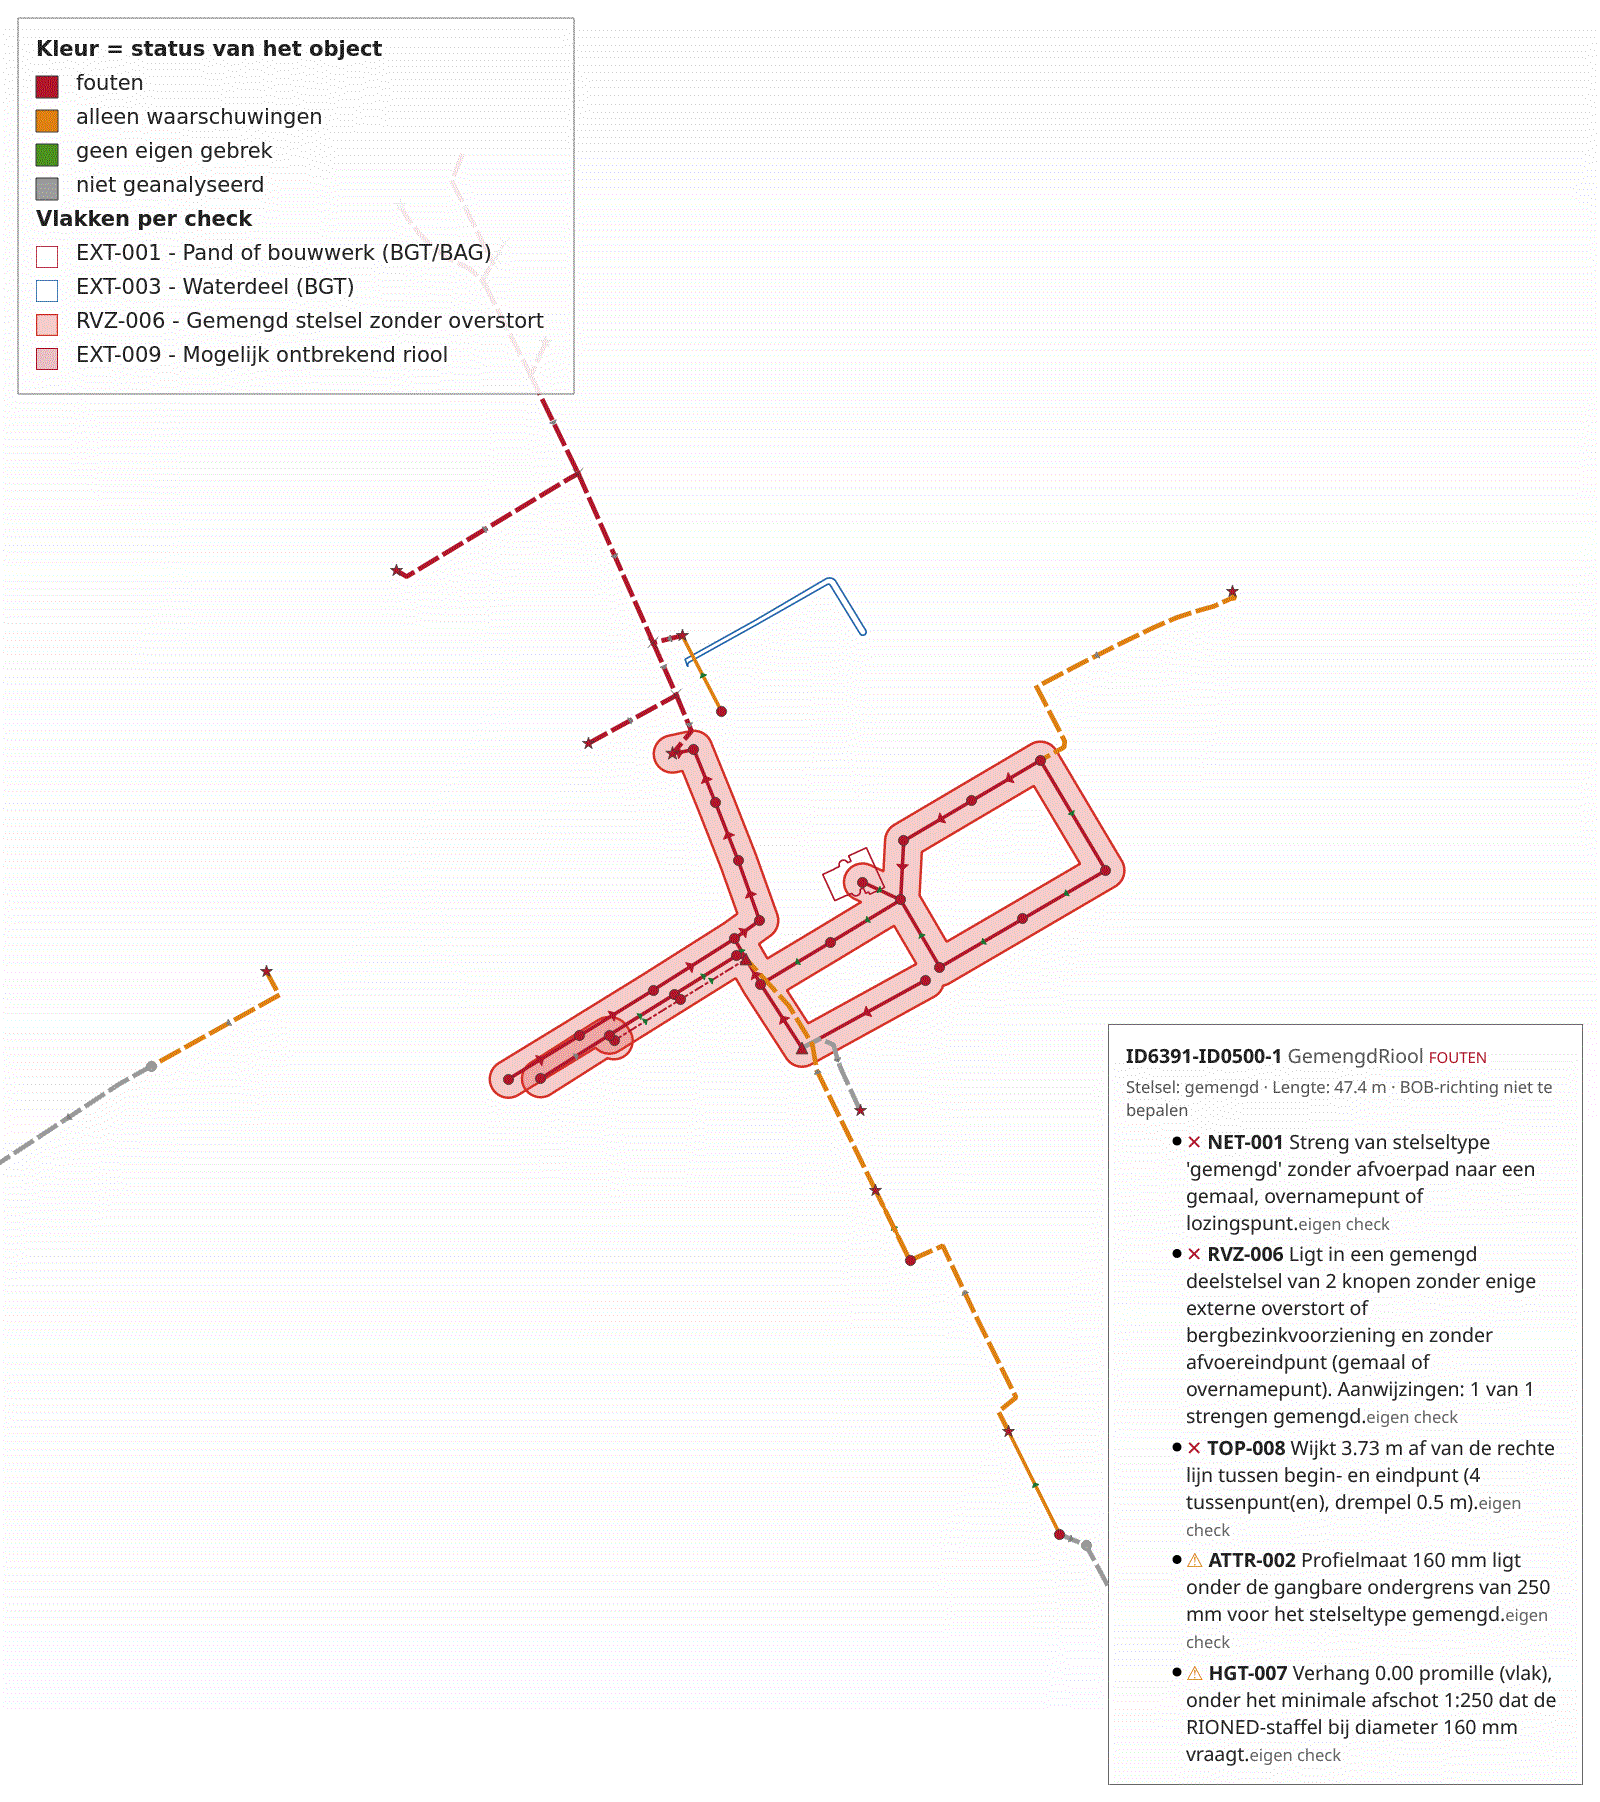
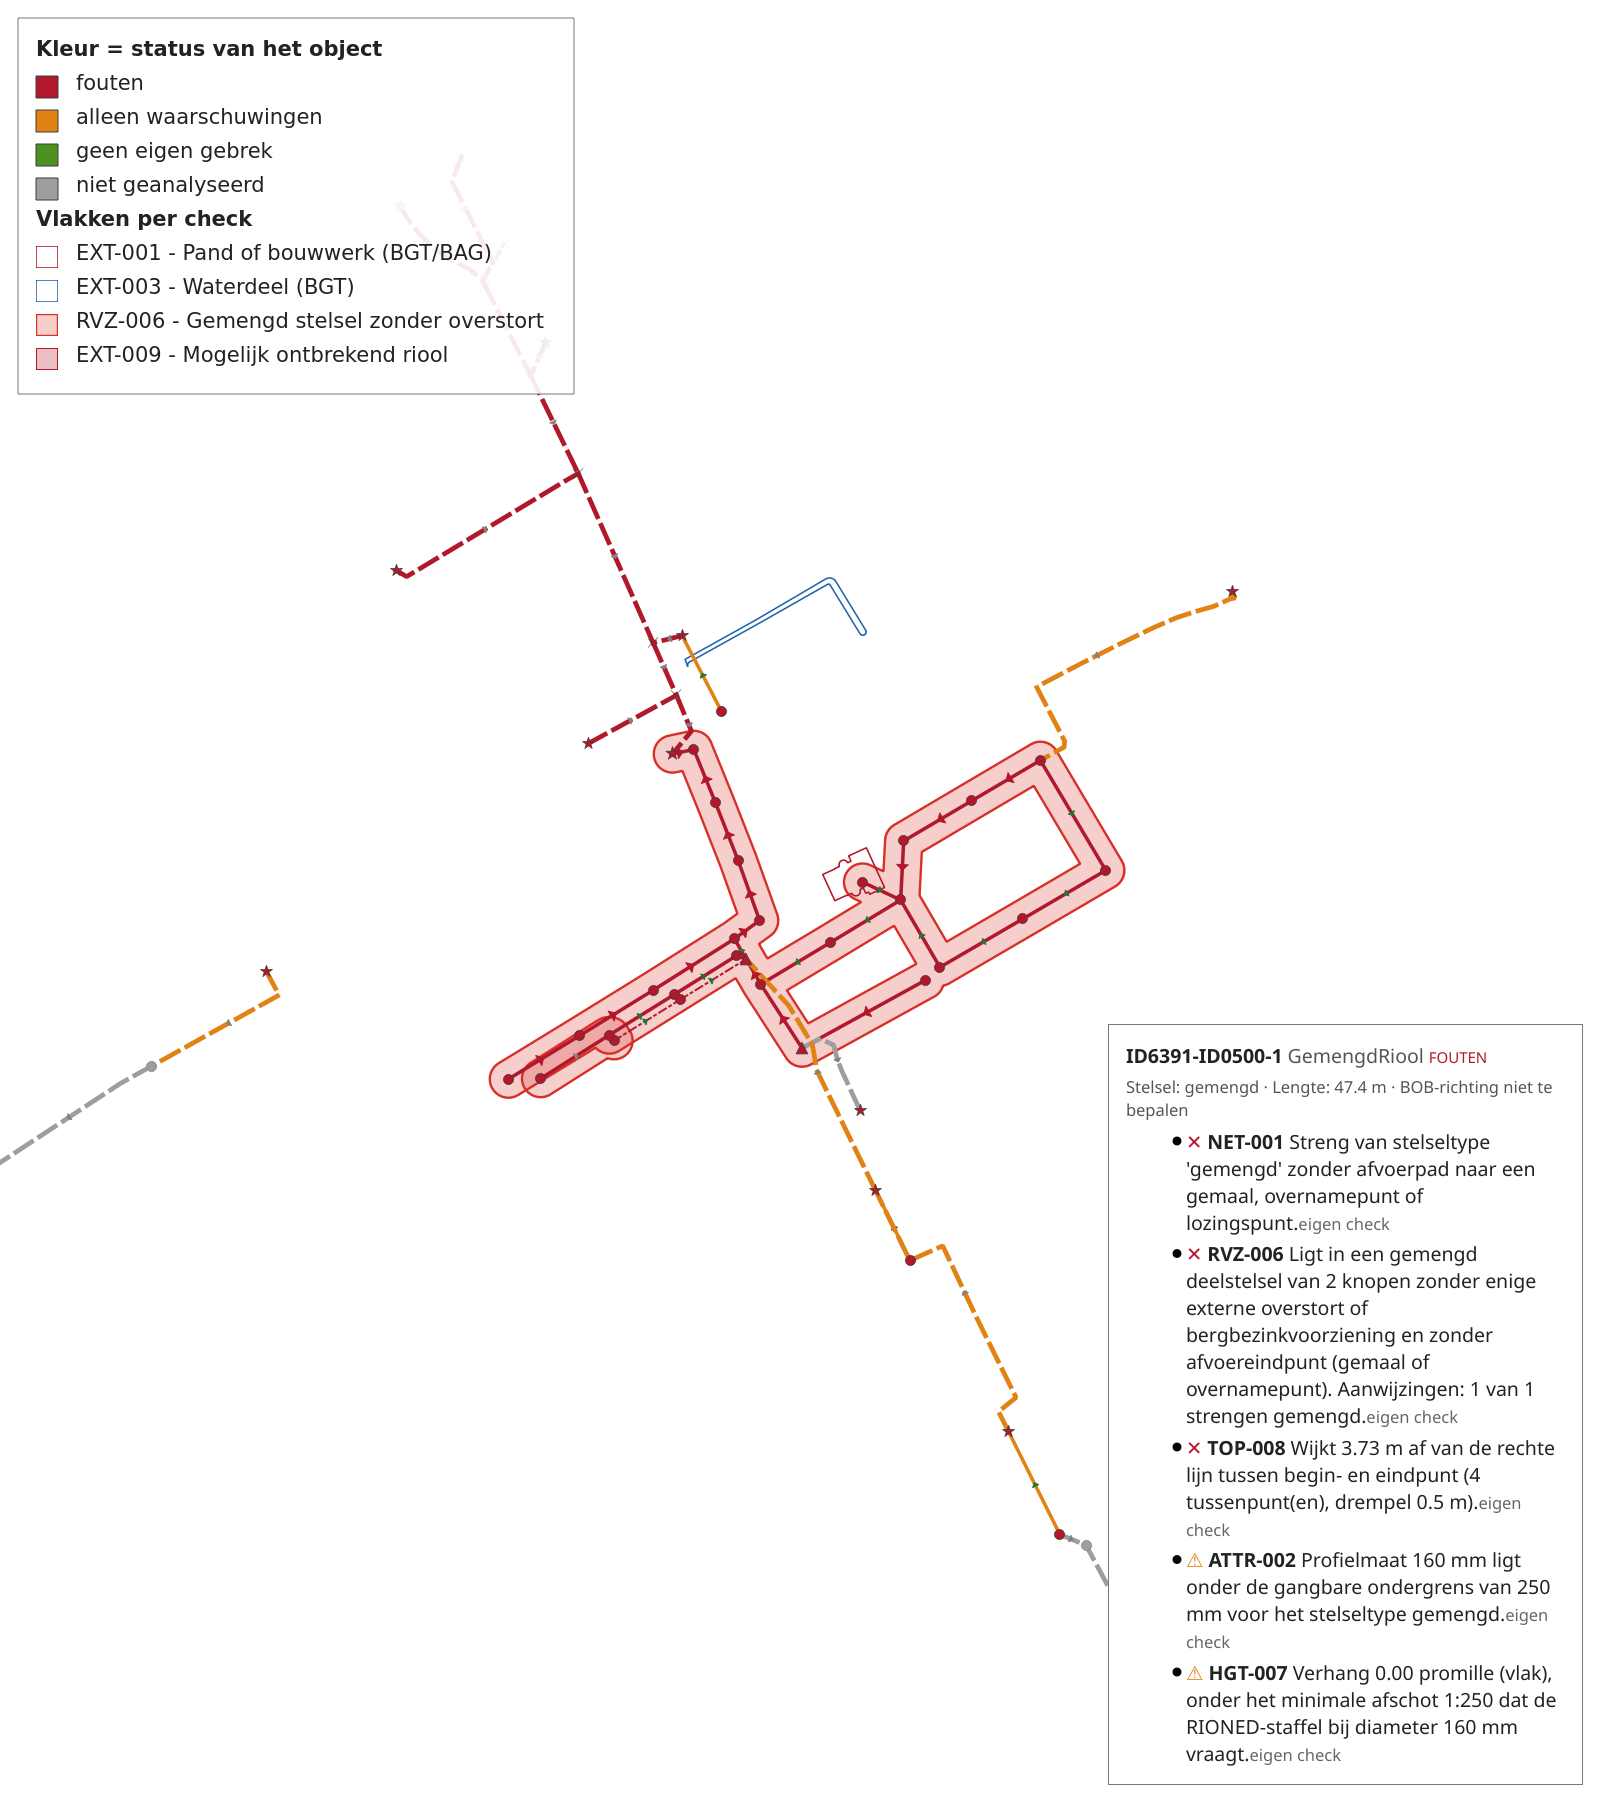
Fixronde 1 #103 (b)+(c): acht reviewpunten (issue #103)
README: de pipx-zin was onwaar -- gwsw-orox-helpers staat niet op PyPI en wordt
alleen via [tool.uv.sources] uit git opgelost, wat pip en pipx negeren; er staat
nu dat uv nodig is. De vierkleurenzin over de status geldt alleen voor putten en
strengen; vlakken draagt wat geen punt of lijn is en alleen een wegvak draagt
daar een status.

maak_schermafdruk.py: _kop hing op twee voorwaardelijke markers. Rode draad
vervalt als de bevindingen geen gezamenlijke oorzaak hebben en het
afhankelijkhedenblok vervalt zonder klassenhierarchie; alleen ## Verantwoording
is onvoorwaardelijk en is nu de harde eindgrens, met de rode draad ervoor als
hij er is. Ontbreekt het afhankelijkhedenblok, dan wordt er niets ingekort. De
placeholder noemt nu alles wat de inkorting wegknipt (rollen, klassen,
afvoereindpunten en de notities), niet alleen de eerste tabel. _popup toetst dat
het maptip-sjabloon zijn <style>-blok en zijn plaatshouder heeft in plaats van
stil zonder opmaak of zonder inhoud te renderen. En de PNG's gaan als RGB32 naar
schijf: Format_Indexed8 dithert met de standaardvlaggen, wat speckle in de
RVZ-006-buffer en gerafelde tekstranden gaf. 311 kB en 144 kB, samen ruim onder
de grens; de docstring zegt nu waarom.

docs/gebruik.md: het transcript toont beide 'Niet aanwezig'-regels van de echte
run, met erbij dat geen check de putdekselrol meer leest sinds EXT-005 en
EXT-006 vervielen (BO-64, BO-65) -- de laag wordt alleen nog geladen en op
dekking getoetst.
[…]

Changed region(s): [[0.0, 0.0311, 1.0, 0.9012], [0.7188, 0.5905, 0.9688, 0.9634], [0.6562, 0.6837, 0.6875, 0.7458]]

diff --git a/scripts/maak_schermafdruk.py b/scripts/maak_schermafdruk.py
@@ -69,7 +69,16 @@ POPUPSCHAAL = 1.5
 # en niet als een uitvergroting.
 RAPPORTBREEDTE = 900
 RAPPORTMARGE = 12
-WEGGELATEN = "*[ tabel met de rollen en klassen waar de checks op selecteren -- ingekort ]*"
+# Wat er in de plaats komt van het afhankelijkhedenblok. Het noemt alles wat er wegvalt --
+# de twee tabellen én de notities eronder -- want een placeholder die minder opsomt dan hij
+# wegknipt, laat het plaatje beweren dat het rapport daar niets meer heeft.
+WEGGELATEN = (
+    "*[ het blok met de rollen, klassen en afvoereindpunten waar de checks van afhangen, "
+    "met de notities eronder -- ingekort ]*"
+)
+
+# De plaatshouder die de maptip voor de voorgebakken popupkolom draagt.
+PLAATSHOUDER = '[% "popup_html" %]'
 
 
 def _systeem_pyqgis_pad() -> Path | None:
@@ -311,10 +320,16 @@ def _popup(gpkg: Path, kaart: QImage) -> None:
     if rij is None:
         return
 
-    css, _, rest = MAPTIP.partition("</style>")
+    css, scheiding, rest = MAPTIP.partition("</style>")
+    if not scheiding or not css.startswith("<style>") or PLAATSHOUDER not in rest:
+        raise SystemExit(
+            "de maptip in `uitvoer/stijlen/symbolen.py` heeft niet de vorm die dit script "
+            f"verwacht (een <style>-blok gevolgd door de plaatshouder {PLAATSHOUDER}); "
+            "zonder die vorm zou de popup hier stil zonder opmaak of zonder inhoud komen."
+        )
     doc = _document(
         css.removeprefix("<style>"),
-        rest.replace('[% "popup_html" %]', rij[0]).replace("</span>", "</span> "),
+        rest.replace(PLAATSHOUDER, rij[0]).replace("</span>", "</span> "),
         markdown=False,
     )
     afbeelding = _teken_document(doc, POPUPBREEDTE, POPUPSCHAAL, 8)
@@ -332,21 +347,31 @@ def _popup(gpkg: Path, kaart: QImage) -> None:
 def _kop(rapport: Path) -> str:
     """De kop van het bevindingenrapport: titel tot en met de managementsamenvatting.
 
-    De grenzen komen uit de vaste kopregels van `uitvoer/bevindingen.py`; verandert de
-    opbouw van het rapport, dan valt dit script om in plaats van stil een ander stuk te
-    tonen.
+    De grenzen komen uit `uitvoer/bevindingen.py`, en twee van de drie staan er niet
+    altijd. **Rode draad** komt er alleen als de bevindingen een gezamenlijke oorzaak
+    hebben (`synthese.rode_draad` mag leeg teruggeven) en het afhankelijkhedenblok
+    vervalt zonder klassenhierarchie (issue #33). Alleen `## Verantwoording` is
+    onvoorwaardelijk; die is daarom de harde eindgrens, met de rode draad ervoor als
+    hij er is. Ontbreekt het afhankelijkhedenblok, dan wordt er niets ingekort.
     """
     regels = rapport.read_text(encoding="utf-8").splitlines()
 
-    def eerste(begin: str) -> int:
+    def zoek(begin: str) -> int | None:
         for index, regel in enumerate(regels):
             if regel.startswith(begin):
                 return index
-        raise SystemExit(f"{rapport}: geen regel die met {begin!r} begint.")
+        return None
 
-    weg_van = eerste("**Objecten waar de checks van afhangen**")
-    weg_tot = eerste("## Voldoen we in dit gebied?")
-    einde = eerste("**Rode draad**")
+    verantwoording = zoek("## Verantwoording")
+    if verantwoording is None:
+        raise SystemExit(f"{rapport}: geen regel '## Verantwoording'; is dit een rapport?")
+    draad = zoek("**Rode draad**")
+    einde = verantwoording if draad is None else min(verantwoording, draad)
+
+    weg_van = zoek("**Objecten waar de checks van afhangen**")
+    weg_tot = zoek("## Voldoen we in dit gebied?")
+    if weg_van is None or weg_tot is None or not weg_van < weg_tot < einde:
+        return "\n".join(regels[:einde])
     return "\n".join(regels[:weg_van] + [WEGGELATEN, ""] + regels[weg_tot:einde])
 
 
@@ -389,12 +414,15 @@ def _studiegebied() -> Path:
 
 
 def _bewaar(afbeelding: QImage, pad: Path) -> None:
-    """Schrijft de afbeelding weg als PNG met een beperkt palet.
+    """Schrijft de afbeelding weg als PNG: verliesvrij, zonder alfakanaal.
 
-    Beperkt palet (8 bits): een schermafdruk van kaart of tekst draagt weinig kleuren en
-    wordt daarmee ruim drie keer zo klein, zonder zichtbaar verschil.
+    RGB32 en geen palet van 8 bits. `convertToFormat(Format_Indexed8)` dithert met de
+    standaardvlaggen, en dat is op deze plaatjes wel degelijk te zien: speckle in de
+    halftransparante RVZ-006-buffer, losse pixels op het wit en gerafelde tekstranden.
+    De winst was een paar honderd kilobyte, en die is hier niet nodig -- PNG comprimeert
+    een schermafdruk ook verliesvrij ruim onder de grens van 1 MB.
     """
-    if not afbeelding.convertToFormat(QImage.Format_Indexed8).save(str(pad), "PNG"):
+    if not afbeelding.convertToFormat(QImage.Format_RGB32).save(str(pad), "PNG"):
         raise SystemExit(f"kon {pad} niet schrijven.")
     print(
         f"{pad.relative_to(WORTEL)}: {afbeelding.width()}x{afbeelding.height()} px, "

diff --git a/docs/gebruik.md b/docs/gebruik.md
@@ -26,13 +26,16 @@ nlriochecker toets \
 ```
 
 Er hoeft geen `--projectconfig` bij: het voorbeeld draait op de meegeleverde
-`src/nlriochecker/checks.toml`. Wat je ziet (ingekort: de regel per check en een paar
-regels over de bronnen staan er niet bij):
+`src/nlriochecker/checks.toml`. Wat je ziet, ingekort tot de hoofdregels -- er staat een
+regel per check, plus een regel over de cache en een waarschuwing dat het net in dit
+gebied met vrijwel de hele export samenhangt:
 
 ```
 koekangerveld_orox.ttl: 109 knooppunten, 107 strengen
   Externe bronnen: 7 lagen, bereik cbs_buurt_koekangerveld_studiegebied:buurt_gegeneraliseerd.
+    Niet aanwezig: bgt_putdeksel (lagen put bevatten geen features)
     Niet aanwezig: ahn_dtm (voorbeelden/koekangerveld/ahn5_dtm_koekangerveld.tif)
+  Studiegebied cbs_buurt_koekangerveld_studiegebied:buurt_gegeneraliseerd (43.2 ha): 390 bevindingen buiten het gebied weggelaten.
   Analyseset: 98 objecten in de kern, 118 in de contextschil, van 216 in de export.
   ADM-010   F      2 bevindingen
   ...
@@ -46,8 +49,13 @@ Geschreven: uitvoer/voorbeeld/bevindingen.json
 
 Vier bestanden dus, en samen 337 meldingen in `bevindingen.json` (de eigen bevindingen,
 de nulmeting en de datasetsignalen). De naam van de GeoPackage draagt de rundatum, dus
-die verschilt bij jou. Het hoogteraster gaat niet mee in de repository; HGT-001 tot en
-met HGT-003 melden daarom zelf dat ze niets konden toetsen.
+die verschilt bij jou.
+
+Twee bronnen ontbreken, en dat scheelt maar één ding. Het **hoogteraster** (AHN) is te
+groot voor een repository; HGT-001 tot en met HGT-003 melden daarom zelf dat ze niets
+konden toetsen. De **BGT-putdekselaag** is leeg in dit extract, maar geen enkele check
+leest die rol nog sinds EXT-005 en EXT-006 vervielen: zij wordt alleen nog geladen en op
+dekking getoetst, en haar ontbreken slaat niets over.
 
 ## De commando's
 

diff --git a/README.md b/README.md
@@ -32,9 +32,10 @@ per SHACL-vorm en per eigen check. [Meer](docs/gebruik.md#het-bevindingenrapport
 
 **`bevindingen.csv`** -- elke melding als rij: check-ID, ernst, object, gebied, locatie en boodschap.
 
-**De GeoPackage** (`dq_<dataset>_<datum>.gpkg`) -- de bevindingen op de kaart, in de lagen `putten`, `strengen` en
-`vlakken`: rood bij een fout, oranje bij alleen waarschuwingen, groen als er geen eigen gebrek is, grijs als er niet
-beoordeeld is. Opmaak (`layer_styles`) en hoverpopup zitten erin ([meer](docs/gebruik.md#wat-je-in-qgis-ziet)).
+**De GeoPackage** (`dq_<dataset>_<datum>.gpkg`) -- de bevindingen op de kaart. Elk object in `putten` en `strengen`
+kleurt naar zijn status: rood bij een fout, oranje bij alleen waarschuwingen, groen als er geen eigen gebrek is, grijs
+als er niet beoordeeld is. De derde laag, `vlakken`, draagt wat geen punt of lijn is: geraakte panden, watergangen,
+gemengde deelstelsels, beoordeelde wegvakken. Opmaak (`layer_styles`) en popup zitten erin ([meer](docs/gebruik.md#wat-je-in-qgis-ziet)).
 
 ![De drie lagen van de voorbeeldrun in QGIS](docs/img/kaart-koekangerveld.png)
 
@@ -60,7 +61,7 @@ nlriochecker toets \
   --output uitvoer/voorbeeld
 ```
 
-Zonder [uv](https://docs.astral.sh/uv/) doet `pipx install git+https://github.com/mcolee/nlriochecker` hetzelfde.
+Dit vraagt [uv](https://docs.astral.sh/uv/): de leeslaag komt uit git via `[tool.uv.sources]`, wat pip en pipx negeren.
 Wat je ziet, ingekort -- er staat een regel per check:
 
 ```

diff --git a/docs/agents/analyse-harness.md b/docs/agents/analyse-harness.md
@@ -119,7 +119,12 @@ Bewerk de generator en regenereer; anders valt de bijbehorende drifttest:
 | `tests/fixtures/gis/**` | `scripts/maak_gis_fixtures.py` |
 | `docs/dekkingsmatrix.md` | `scripts/dekkingsmatrix.py` |
 | `voorbeelden/koekangerveld/**` | `scripts/maak_voorbeeld.py` |
-| `docs/img/*.png` | `scripts/maak_schermafdruk.py` (na een `toets` naar `uitvoer/voorbeeld`) |
+| `docs/img/*.png` | `scripts/maak_schermafdruk.py` (na een `toets` naar `uitvoer/voorbeeld`) — **geen drifttest** |
+
+De laatste rij is de enige zonder vangnet: PyQGIS staat niet op de CI-runner, dus een
+verouderde schermafdruk valt nergens op en niemand stuurt je terug naar de generator.
+Regenereer hem zelf zodra je de stijlen (`uitvoer/stijlen/`) of de kop van het
+bevindingenrapport wijzigt — draai eerst `toets` op het voorbeeld naar `uitvoer/voorbeeld`.
 
 De vocabulaire-index staat niet meer in deze repo: zij reist mee met `gwsw-orox-helpers`
 en wordt daar geregenereerd.
